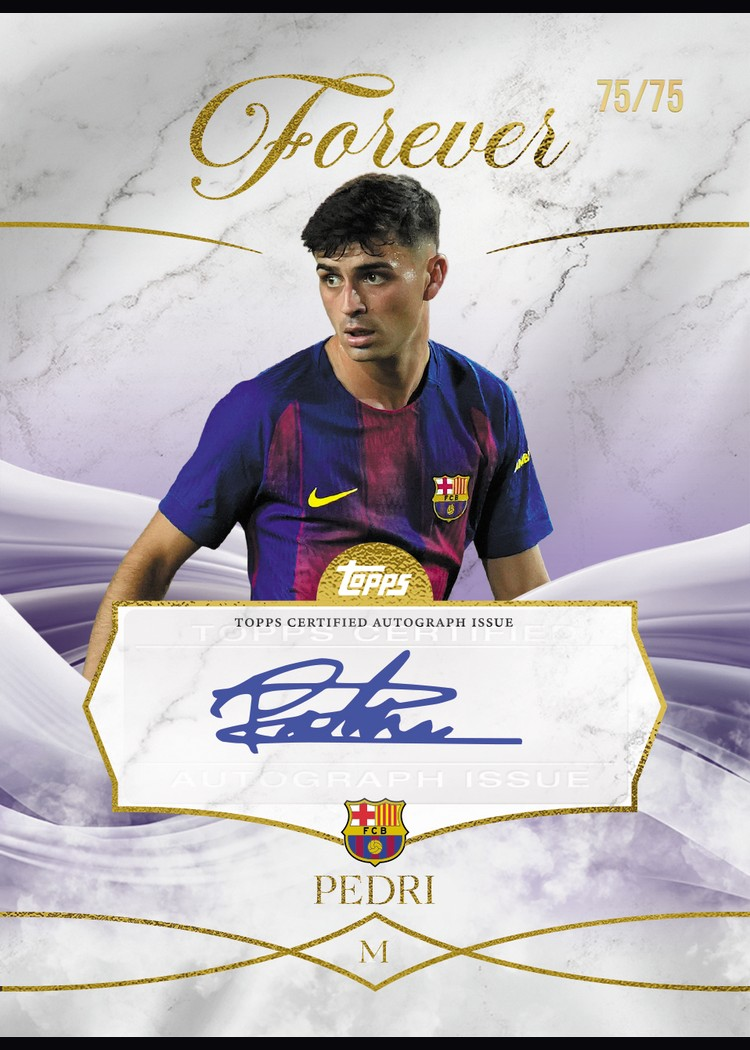
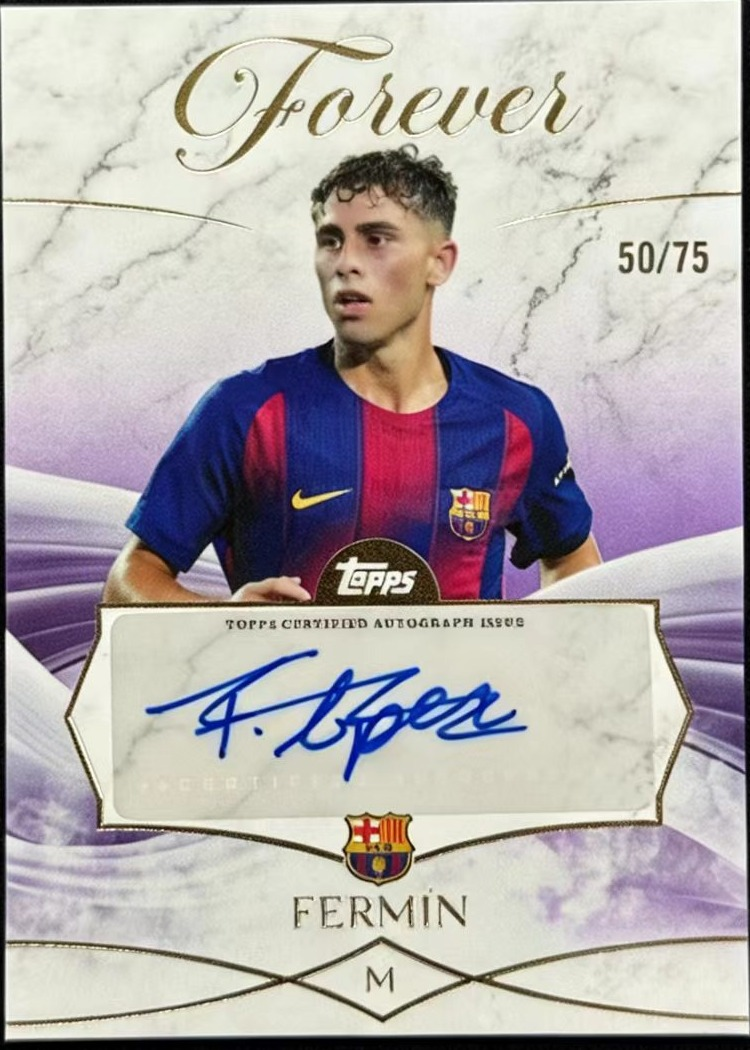
fix: replace Barcelona autograph card photos

diff --git a/tests/catalogue.test.ts b/tests/catalogue.test.ts
@@ -15,13 +15,13 @@ const chromeArsenalSlug = "topps-chrome-arsenal-2025-26";
 const chromeSapphireBundesligaSlug = "topps-chrome-sapphire-bundesliga-2025-26";
 const barcelonaForeverSlug = "topps-forever-fc-barcelona-2025-26";
 const barcelonaForeverDesigns = [
-  "blaugrana-vault-gold",
+  "blaugrana-vault-green",
   "forever-kit",
   "forever-legends-gold-foilfractor",
-  "forever-mens-gold",
+  "forever-mens-purple",
   "forever-womens-orange",
   "identity-respect",
-  "century-club-black",
+  "century-club-gold-foilfractor",
   "home-view",
 ];
 const chromeSapphireBundesligaDesigns = [
@@ -491,10 +491,10 @@ describe("Topps Forever FC Barcelona 2025-26 catalogue", () => {
     const standardParallelSerials = ["/125", "/99", "/75", "/50", "/25", "/10", "/5", "1/1"];
 
     expect(series?.cardDesigns.find((card) => card.slug === "forever-kit")?.parallels?.map((parallel) => parallel.serial)).toEqual(standardParallelSerials);
-    expect(series?.cardDesigns.find((card) => card.slug === "blaugrana-vault-gold")?.parallels?.map((parallel) => parallel.serial)).toEqual(standardParallelSerials);
+    expect(series?.cardDesigns.find((card) => card.slug === "blaugrana-vault-green")?.parallels?.map((parallel) => parallel.serial)).toEqual(standardParallelSerials);
     expect(series?.cardDesigns.find((card) => card.slug === "forever-legends-gold-foilfractor")?.parallels?.map((parallel) => parallel.serial)).toEqual(standardParallelSerials);
     expect(series?.cardDesigns.find((card) => card.slug === "identity-respect")?.parallels?.map((parallel) => parallel.serial)).toEqual(["/50", "/25", "/10", "/5", "1/1"]);
-    expect(series?.cardDesigns.find((card) => card.slug === "century-club-black")?.parallels?.map((parallel) => parallel.serial)).toEqual(["/10", "/5", "1/1"]);
+    expect(series?.cardDesigns.find((card) => card.slug === "century-club-gold-foilfractor")?.parallels?.map((parallel) => parallel.serial)).toEqual(["/10", "/5", "1/1"]);
     expect(series?.cardDesigns.find((card) => card.slug === "home-view")?.parallels?.map((parallel) => parallel.serial)).toEqual(["1/1"]);
   });
 
@@ -502,13 +502,13 @@ describe("Topps Forever FC Barcelona 2025-26 catalogue", () => {
     const series = getSeries(barcelonaForeverSlug);
 
     expect(series?.cardDesigns.map((card) => [card.slug, card.name["zh-CN"], card.officialName])).toEqual([
-      ["blaugrana-vault-gold", "红蓝宝库签名", "Blaugrana Vault Autographs"],
+      ["blaugrana-vault-green", "红蓝宝库签名", "Blaugrana Vault Autographs"],
       ["forever-kit", "永恒球衣签名", "Forever Kit Autographs"],
       ["forever-legends-gold-foilfractor", "永恒传奇签名", "Forever Legend's Autographs"],
-      ["forever-mens-gold", "永恒男足签名", "Forever Men's Autographs"],
+      ["forever-mens-purple", "永恒男足签名", "Forever Men's Autographs"],
       ["forever-womens-orange", "永恒女足签名", "Forever Women's Autographs"],
       ["identity-respect", "巴萨精神签名", "Identity Autographs"],
-      ["century-club-black", "百场纪念：亚马尔签名比赛球网实物", "Century Club: Yamal Edition Autograph Relic"],
+      ["century-club-gold-foilfractor", "百场纪念：亚马尔签名比赛球网实物", "Century Club: Yamal Edition Autograph Relic"],
       ["home-view", "主场视角签名实物", "Home View Autograph Relics"],
     ]);
   });
@@ -516,13 +516,40 @@ describe("Topps Forever FC Barcelona 2025-26 catalogue", () => {
   it("distinguishes the Century Club net relic from the Forever Kit design and marks Home View as one-of-one", () => {
     const series = getSeries(barcelonaForeverSlug);
     const foreverKit = series?.cardDesigns.find((card) => card.slug === "forever-kit");
-    const centuryClub = series?.cardDesigns.find((card) => card.slug === "century-club-black");
+    const centuryClub = series?.cardDesigns.find((card) => card.slug === "century-club-gold-foilfractor");
     const homeView = series?.cardDesigns.find((card) => card.slug === "home-view");
 
     expect(foreverKit?.curatorNote?.["zh-CN"]).toContain("不含实物");
     expect(centuryClub?.curatorNote?.["zh-CN"]).toContain("比赛球网");
     expect(homeView?.curatorNote?.["zh-CN"]).toContain("诺坎普座椅");
     expect(homeView?.serial).toBe("1/1");
+  });
+
+  it("uses the exact numbered versions shown in the four replacement photos", () => {
+    const series = getSeries(barcelonaForeverSlug);
+
+    expect(series?.cardDesigns.find((card) => card.slug === "blaugrana-vault-green")?.serial).toBe("/99");
+    expect(series?.cardDesigns.find((card) => card.slug === "forever-mens-purple")?.serial).toBe("/75");
+    expect(series?.cardDesigns.find((card) => card.slug === "century-club-gold-foilfractor")?.serial).toBe("1/1");
+    expect(series?.cardDesigns.find((card) => card.slug === "home-view")?.serial).toBe("1/1");
+  });
+
+  it("crops the replacement photos to their card frames without phone screenshot padding", async () => {
+    const series = getSeries(barcelonaForeverSlug);
+    const expectedSizes = new Map([
+      ["blaugrana-vault-green", { width: 750, height: 1050 }],
+      ["forever-mens-purple", { width: 750, height: 1050 }],
+      ["century-club-gold-foilfractor", { width: 750, height: 1050 }],
+      ["home-view", { width: 1050, height: 750 }],
+    ]);
+
+    for (const [slug, expected] of expectedSizes) {
+      const card = series?.cardDesigns.find((design) => design.slug === slug);
+      expect(card, slug).toBeDefined();
+      if (!card) continue;
+      const metadata = await sharp(path.join(process.cwd(), "public", card.image.path)).metadata();
+      expect({ width: metadata.width, height: metadata.height }, slug).toEqual(expected);
+    }
   });
 
   it("enlarges the padded women's autograph photo without changing its proportions", () => {
@@ -553,13 +580,13 @@ describe("Topps Forever FC Barcelona 2025-26 catalogue", () => {
       .map((card) => card.slug);
 
     expect(exactSlugs).toEqual([
-      "blaugrana-vault-gold",
+      "blaugrana-vault-green",
       "forever-kit",
       "forever-legends-gold-foilfractor",
-      "forever-mens-gold",
+      "forever-mens-purple",
       "forever-womens-orange",
       "identity-respect",
-      "century-club-black",
+      "century-club-gold-foilfractor",
       "home-view",
     ]);
   });

diff --git a/data/catalogue.ts b/data/catalogue.ts
@@ -596,13 +596,13 @@ type BarcelonaStandardFamily = {
 };
 
 const verifiedBarcelonaDisplaySlugs = new Set([
-  "blaugrana-vault-gold",
+  "blaugrana-vault-green",
   "forever-kit",
   "forever-legends-gold-foilfractor",
-  "forever-mens-gold",
+  "forever-mens-purple",
   "forever-womens-orange",
   "identity-respect",
-  "century-club-black",
+  "century-club-gold-foilfractor",
   "home-view",
 ]);
 
@@ -646,13 +646,13 @@ const centuryClubParallels = [
 ];
 
 const barcelonaForeverCardDesigns: CardDesign[] = [
-  ...buildBarcelonaStandardFamily({ slug: "blaugrana-vault", officialName: "Blaugrana Vault Autographs", name: names("红蓝宝库签名", "Blaugrana Vault Autographs", "Autógrafos Blaugrana Vault"), representativeSuffix: "gold" }),
+  ...buildBarcelonaStandardFamily({ slug: "blaugrana-vault", officialName: "Blaugrana Vault Autographs", name: names("红蓝宝库签名", "Blaugrana Vault Autographs", "Autógrafos Blaugrana Vault"), representativeSuffix: "green" }),
   ...buildBarcelonaStandardFamily({ slug: "forever-kit", officialName: "Forever Kit Autographs", name: names("永恒球衣签名", "Forever Kit Autographs", "Autógrafos Forever Kit"), representativeSuffix: "", curatorNote: names("以巴萨历代球衣元素为视觉主题的签名卡，不含实物。", "An autograph card built around visual elements from historic Barça kits; it does not contain memorabilia.", "Una carta autografiada inspirada en elementos visuales de camisetas históricas del Barça; no contiene reliquias.") }),
   ...buildBarcelonaStandardFamily({ slug: "forever-legends", officialName: "Forever Legend's Autographs", name: names("永恒传奇签名", "Forever Legends Autographs", "Autógrafos Forever Legends"), representativeSuffix: "gold-foilfractor" }),
-  ...buildBarcelonaStandardFamily({ slug: "forever-mens", officialName: "Forever Men's Autographs", name: names("永恒男足签名", "Forever Men's Autographs", "Autógrafos Forever masculinos"), representativeSuffix: "gold" }),
+  ...buildBarcelonaStandardFamily({ slug: "forever-mens", officialName: "Forever Men's Autographs", name: names("永恒男足签名", "Forever Men's Autographs", "Autógrafos Forever masculinos"), representativeSuffix: "purple" }),
   ...buildBarcelonaStandardFamily({ slug: "forever-womens", officialName: "Forever Women's Autographs", name: names("永恒女足签名", "Forever Women's Autographs", "Autógrafos Forever femeninos"), representativeSuffix: "orange", displayScale: 1.85 }),
   barcelonaForeverCard({ slug: "identity-respect", officialName: "Identity Autographs", name: names("巴萨精神签名", "Identity Autographs", "Autógrafos Identity"), serial: "1/1", verification: "exact", parallels: identityParallels }),
-  barcelonaForeverCard({ slug: "century-club-black", officialName: "Century Club: Yamal Edition Autograph Relic", name: names("百场纪念：亚马尔签名比赛球网实物", "Century Club: Yamal Edition Autograph Relic", "Century Club: reliquia autografiada de Yamal"), serial: "/10", verification: "exact", parallels: centuryClubParallels, curatorNote: names("纪念亚马尔代表巴萨第 100 次出场，卡内包含该场使用的比赛球网实物，并带有球员签名。", "Celebrating Yamal's 100th FC Barcelona appearance, this signed card contains match-used goal-net material from that game.", "Celebra el partido número 100 de Yamal con el FC Barcelona e incluye material de la red utilizada en ese encuentro, además de su autógrafo.") }),
+  barcelonaForeverCard({ slug: "century-club-gold-foilfractor", officialName: "Century Club: Yamal Edition Autograph Relic", name: names("百场纪念：亚马尔签名比赛球网实物", "Century Club: Yamal Edition Autograph Relic", "Century Club: reliquia autografiada de Yamal"), serial: "1/1", verification: "exact", parallels: centuryClubParallels, curatorNote: names("纪念亚马尔代表巴萨第 100 次出场，卡内包含该场使用的比赛球网实物，并带有球员签名。", "Celebrating Yamal's 100th FC Barcelona appearance, this signed card contains match-used goal-net material from that game.", "Celebra el partido número 100 de Yamal con el FC Barcelona e incluye material de la red utilizada en ese encuentro, además de su autógrafo.") }),
   barcelonaForeverCard({ slug: "home-view", officialName: "Home View Autograph Relics", name: names("主场视角签名实物", "Home View Autograph Relics", "Reliquias autografiadas Home View"), serial: "1/1", layout: "landscape", verification: "exact", parallels: [{ name: "Gold FoilFractor", serial: "1/1" }], curatorNote: names("每位球员仅有 Gold FoilFractor 1/1，卡内包含诺坎普座椅实物并带有签名。", "Each player has only a Gold FoilFractor 1/1, combining an autograph with an authentic Camp Nou seat relic.", "Cada jugador aparece únicamente en Gold FoilFractor 1/1, con autógrafo y una reliquia auténtica de un asiento del Camp Nou.") }),
 ];
 

diff --git a/tests/components/CardDesignTile.test.tsx b/tests/components/CardDesignTile.test.tsx
@@ -79,7 +79,7 @@ it("names each listed parallel instead of showing only its serial number", () =>
 
 it("shows the generic family title and keeps the representative serial in the parallel labels", () => {
   const series = getSeries("topps-forever-fc-barcelona-2025-26");
-  const design = series?.cardDesigns.find((card) => card.slug === "century-club-black");
+  const design = series?.cardDesigns.find((card) => card.slug === "century-club-gold-foilfractor");
   expect(design).toBeDefined();
   if (!design) return;
 
